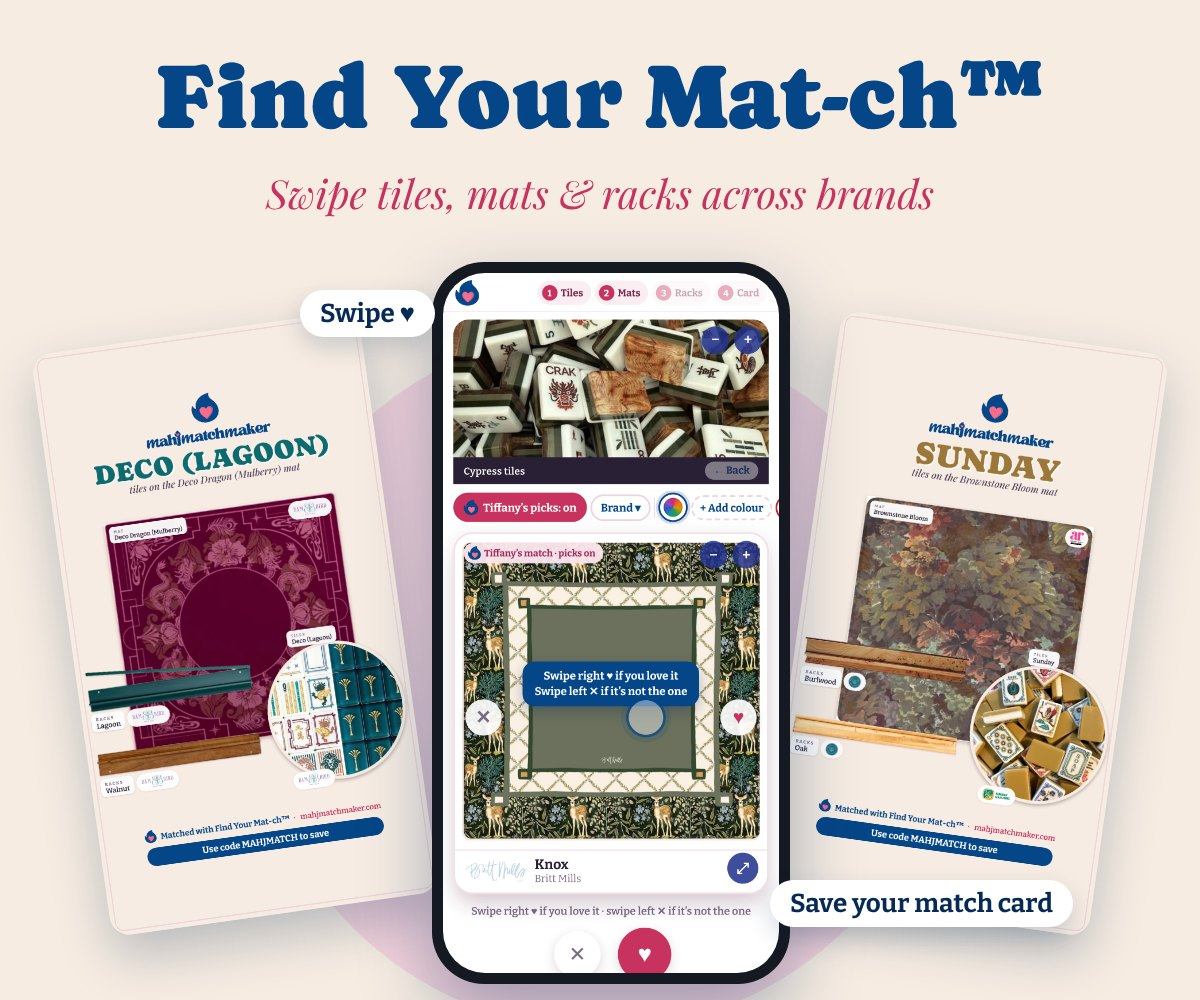
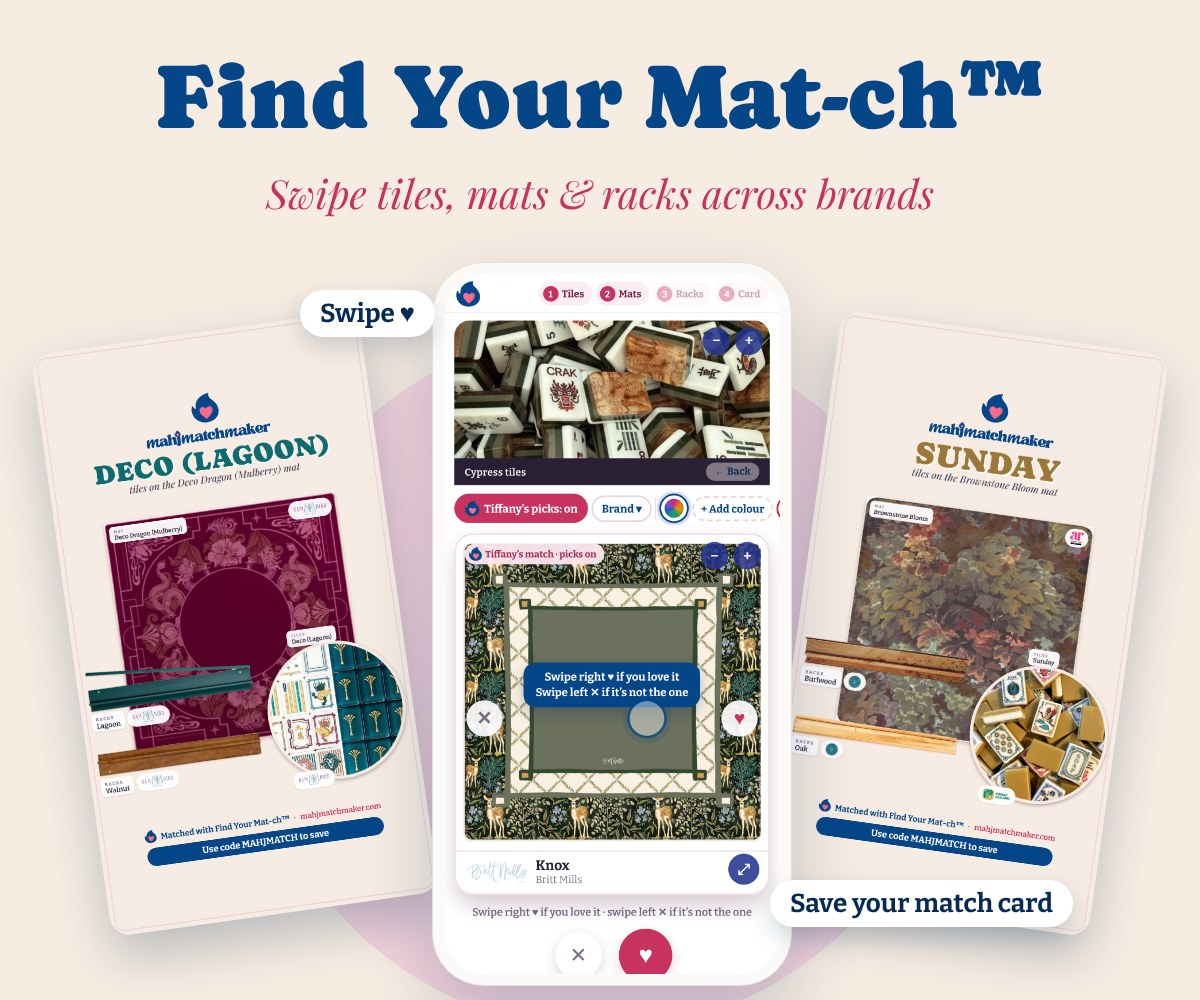
partner hero v6: white iPhone (Tiffany 14:00)
Claude-Session: https://claude.ai/code/session_01U7RfeJEDwDLRZnhiPmiFwy

Changed region(s): [[0.3392, 0.248, 0.6783, 0.961], [0.37, 0.961, 0.6475, 0.992], [0.6475, 0.93, 0.6783, 0.961]]

diff --git a/site/livepatch/partner-email-oct26/hero-src-v6.html b/site/livepatch/partner-email-oct26/hero-src-v6.html
@@ -1,0 +1,17 @@
+<!doctype html><html><head><style>
+@font-face{font-family:Cap;src:url(file:///home/claude/mahjmatchmaker-data/assets/fonts/Caprasimo.ttf)}@font-face{font-family:Bit;src:url(file:///home/claude/mahjmatchmaker-data/assets/fonts/bitter-latin-700-normal.woff2)}@font-face{font-family:Pf;font-style:italic;src:url(file:///home/claude/mahjmatchmaker-data/assets/fonts/playfair-display-latin-400-italic.woff2)}
+body{margin:0;width:1200px;height:1000px;background:#f6ece2;position:relative;overflow:hidden}
+.glow{position:absolute;left:250px;top:330px;width:700px;height:700px;border-radius:50%;background:#f3d3dc}
+h1{position:absolute;top:44px;width:100%;text-align:center;margin:0;font:400 92px Cap;color:#054689}
+.sub{position:absolute;top:166px;width:100%;text-align:center;font:italic 40px Pf;color:#c8325f}
+.card{position:absolute;width:330px;border-radius:20px;box-shadow:0 22px 50px rgba(6,42,85,.25)}
+.ph{position:absolute;left:432px;top:262px;width:336px;border-radius:52px;background:#fbfaf8;padding:11px;border:1.5px solid #e6e1da;box-shadow:0 30px 70px rgba(6,42,85,.22);z-index:3}
+.ph .scr{border-radius:42px;overflow:hidden;height:700px}.ph img{width:100%;display:block}
+.lab{position:absolute;font:700 26px Bit;color:#062a55;background:#fff;border-radius:40px;padding:8px 20px;box-shadow:0 10px 24px rgba(6,42,85,.18);z-index:4}
+</style></head><body><div class="glow"></div>
+<h1>Find Your Mat-ch&trade;</h1><div class="sub">Swipe tiles, mats &amp; racks across brands</div>
+<img class="card" src="file:///tmp/claude-0/-home-claude/05549d34-8fe3-5ca9-a6a5-308991cb9a78/scratchpad/hero4/v5L3.jpg" style="left:70px;top:330px;transform:rotate(-8deg)">
+<img class="card" src="file:///tmp/claude-0/-home-claude/05549d34-8fe3-5ca9-a6a5-308991cb9a78/scratchpad/hero4/v5R4.jpg" style="left:800px;top:330px;transform:rotate(8deg)">
+<div class="ph"><div class="scr"><img src="file:///tmp/claude-0/-home-claude/05549d34-8fe3-5ca9-a6a5-308991cb9a78/scratchpad/hero4/phone.png"></div></div>
+<div class="lab" style="left:300px;top:290px">Swipe &hearts;</div><div class="lab" style="left:770px;top:880px">Save your match card</div>
+</body></html>
